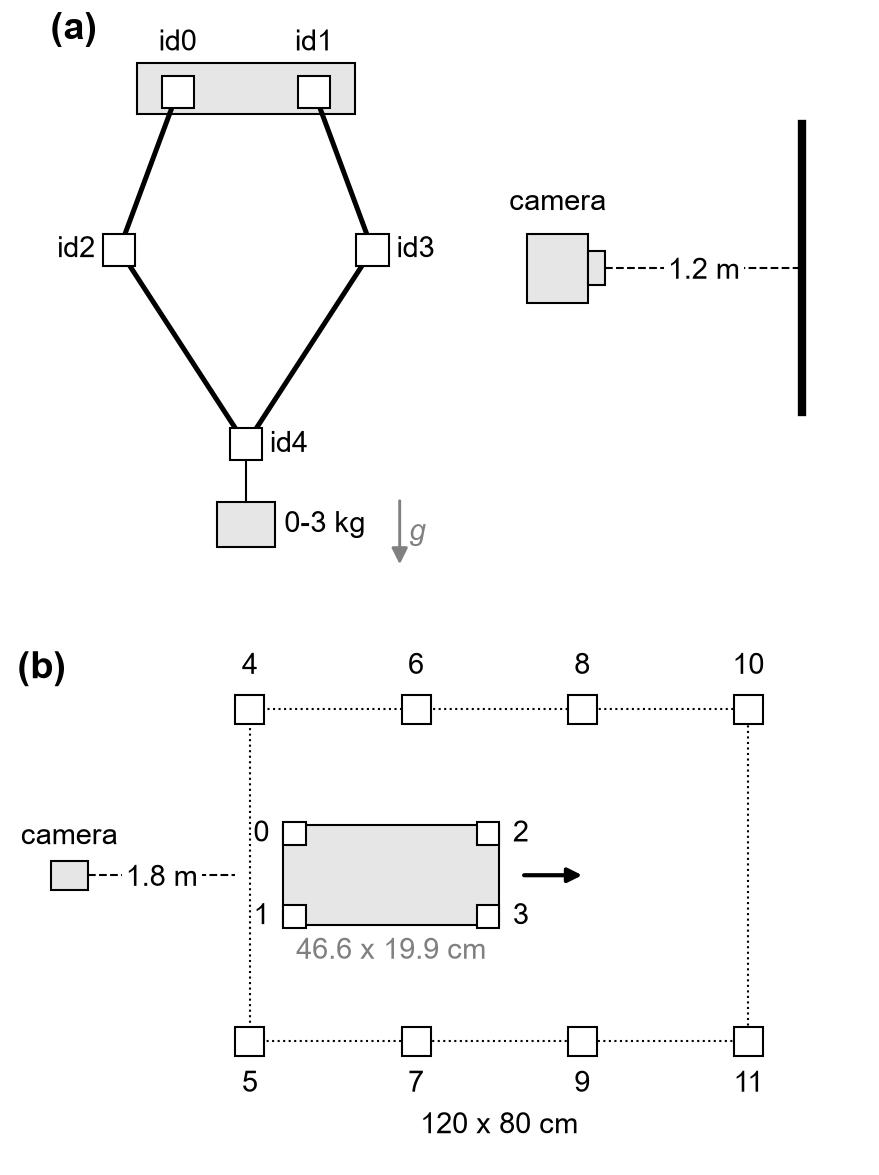
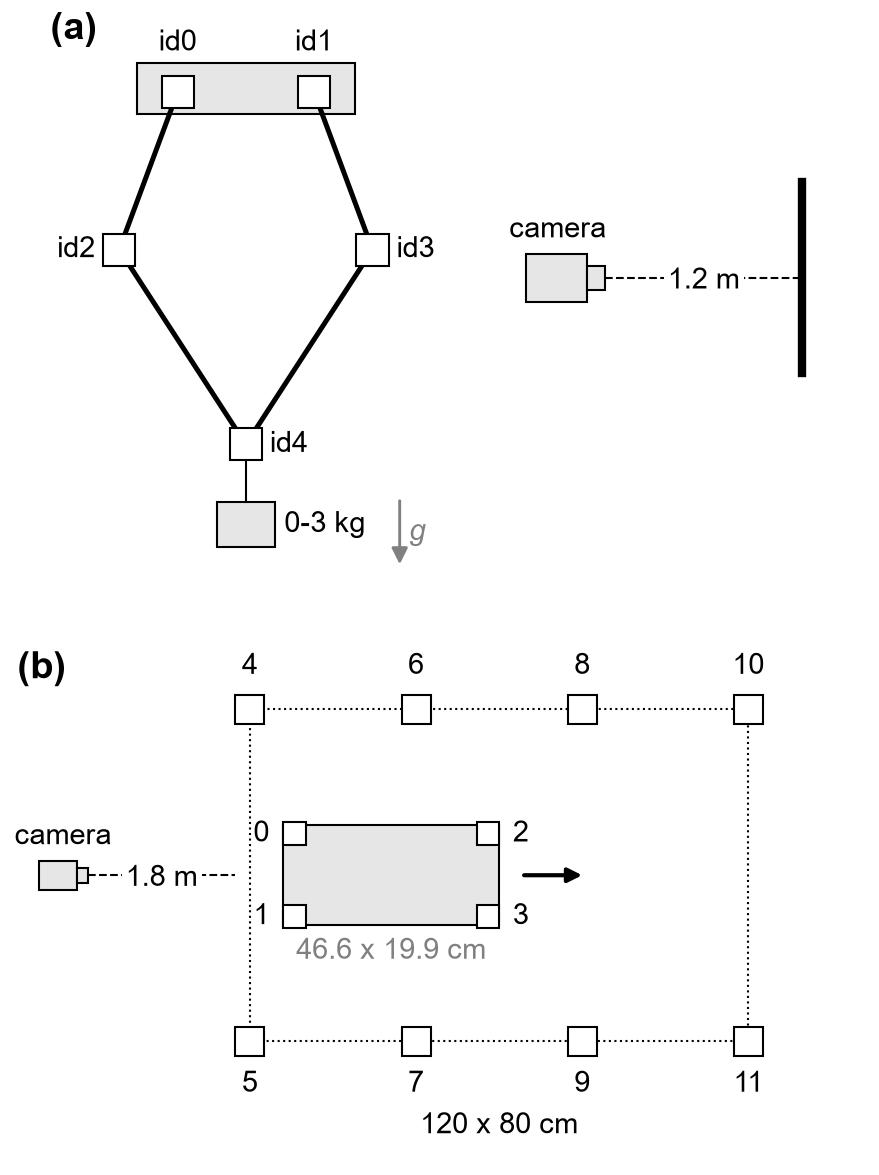
fig1: one shared camera glyph in both panels

diff --git a/paper/make-figures.py b/paper/make-figures.py
@@ -115,6 +115,11 @@ def fig1():
     def tagbox(ax, x, y, s, z=6):
         ax.add_patch(Rectangle((x - s / 2, y - s / 2), s, s, fc='white', ec=INK, lw=0.5, zorder=z))
 
+    def camera(ax, x_lens, y, w):
+        """One camera glyph for both panels: body w x 0.78w with the lens tip at (x_lens, y), looking +x."""
+        ax.add_patch(Rectangle((x_lens - 0.3 * w - w, y - 0.39 * w), w, 0.78 * w, fc=LIGHT, ec=INK, lw=0.5))
+        ax.add_patch(Rectangle((x_lens - 0.3 * w, y - 0.2 * w), 0.3 * w, 0.4 * w, fc=LIGHT, ec=INK, lw=0.5))
+
     # (a) left: the leg as the camera sees it, in real mm; the payload hangs from the foot
     ax = fig.add_subplot(gs[0, 0]); ax.set_aspect('equal'); ax.axis('off')
     ax.set_xlim(-125, 125); ax.set_ylim(-308, 52)
@@ -138,9 +143,9 @@ def fig1():
     ax.text(-122, 50, '(a)', fontsize=9, fontweight='bold', va='top', color=INK)
 
     # (a) right: the camera stands 1.2 m in front of that plane, axis normal to it
-    ax = fig.add_subplot(gs[0, 1]); ax.axis('off'); ax.set_xlim(0, 1); ax.set_ylim(0, 1)
-    ax.add_patch(Rectangle((0.10, 0.49), 0.16, 0.12, fc=LIGHT, ec=INK, lw=0.5))   # camera
-    ax.add_patch(Rectangle((0.26, 0.52), 0.045, 0.06, fc=LIGHT, ec=INK, lw=0.5))
+    ax = fig.add_subplot(gs[0, 1]); ax.axis('off'); ax.set_aspect('equal')
+    ax.set_xlim(0, 1); ax.set_ylim(0, 1)
+    camera(ax, 0.305, 0.55, 0.16)
     ax.plot([0.305, 0.82], [0.55, 0.55], color=INK, lw=0.5, ls='--')               # sight line, lens to plane
     ax.plot([0.82, 0.82], [0.30, 0.80], color=INK, lw=2.0)                         # leg plane, edge-on
     ax.text((0.305 + 0.82) / 2, 0.55, '%.1f m' % CAMERA_M, **lab, **onl)
@@ -171,10 +176,10 @@ def fig1():
             fontsize=7, color=MID)
     ax.annotate('', xy=(rx + 48, ry), xytext=(rx + 30, ry),
                 arrowprops=dict(arrowstyle='-|>', lw=1.0, color=INK, mutation_scale=7))
-    ax.add_patch(Rectangle((-48, ry - 3.5), 9, 7, fc=LIGHT, ec=INK, lw=0.5))       # camera
+    camera(ax, -39, ry, 9)
     ax.plot([-39, -3.5], [ry, ry], color=INK, lw=0.5, ls='--')                     # camera to the first tag row
     ax.text((-39 - 3.5) / 2, ry, '1.8 m', **lab, **onl)
-    ax.text(-43.5, ry + 6, 'camera', ha='center', va='bottom', **lab)
+    ax.text(-45, ry + 6, 'camera', ha='center', va='bottom', **lab)
     ax.text(-56, 94, '(b)', fontsize=9, fontweight='bold', va='top', color=INK)
     save(fig, 'fig1', svg=True)
 
